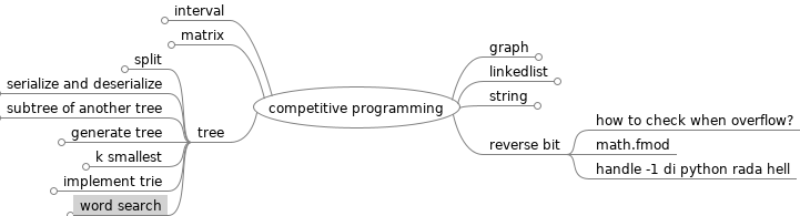
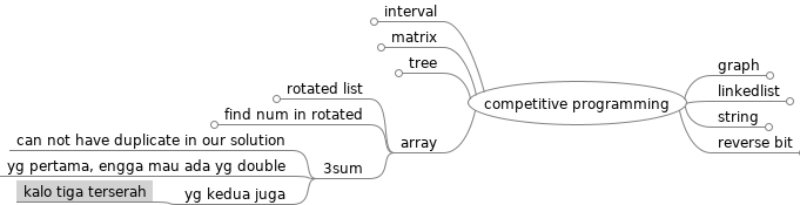
update lecture notes

diff --git a/competitive programming.mm b/competitive programming.mm
@@ -84,7 +84,7 @@
 <node CREATED="1646236107595" ID="ID_686902376" MODIFIED="1646236111699" TEXT="merge both"/>
 </node>
 </node>
-<node CREATED="1646319054999" FOLDED="true" ID="ID_739850153" MODIFIED="1646397309566" POSITION="left" TEXT="matrix">
+<node CREATED="1646319054999" FOLDED="true" ID="ID_739850153" MODIFIED="1647475997318" POSITION="left" TEXT="matrix">
 <node CREATED="1646319057257" FOLDED="true" ID="ID_71211213" MODIFIED="1646325436873" TEXT="spiral">
 <node CREATED="1646319061462" ID="ID_820041629" MODIFIED="1646319066376" TEXT="left boundary"/>
 <node CREATED="1646319066617" ID="ID_1354185240" MODIFIED="1646319070662" TEXT="right boundary"/>
@@ -142,7 +142,7 @@
 <node CREATED="1646528593768" ID="ID_319139200" MODIFIED="1646528601408" TEXT="how a word end?"/>
 </node>
 </node>
-<node CREATED="1646644221438" ID="ID_1215215340" MODIFIED="1646644224572" POSITION="left" TEXT="tree">
+<node CREATED="1646644221438" FOLDED="true" ID="ID_1215215340" MODIFIED="1647475991352" POSITION="left" TEXT="tree">
 <node CREATED="1646644224795" FOLDED="true" ID="ID_899174569" MODIFIED="1647089023768" TEXT="split">
 <node CREATED="1646644226400" ID="ID_371103410" MODIFIED="1646644232924" TEXT="which path you want to split"/>
 <node CREATED="1646645006118" ID="ID_1423508396" MODIFIED="1646645010275" TEXT="subproblem first">
@@ -231,10 +231,45 @@
 </node>
 </node>
 </node>
-<node CREATED="1646825743684" ID="ID_1980900154" MODIFIED="1646825748319" POSITION="right" TEXT="reverse bit">
+<node CREATED="1646825743684" FOLDED="true" ID="ID_1980900154" MODIFIED="1647475999160" POSITION="right" TEXT="reverse bit">
 <node CREATED="1646825748598" ID="ID_809195420" MODIFIED="1646825759888" TEXT="how to check when overflow?"/>
 <node CREATED="1646839958871" ID="ID_826246121" MODIFIED="1646839962451" TEXT="math.fmod"/>
 <node CREATED="1646840872466" ID="ID_723155245" MODIFIED="1646840879725" TEXT="handle -1 di python rada hell"/>
+</node>
+<node CREATED="1647476001168" ID="ID_752347311" MODIFIED="1647476003534" POSITION="left" TEXT="array">
+<node CREATED="1647476004020" FOLDED="true" ID="ID_1194419023" MODIFIED="1647478725897" TEXT="rotated list">
+<node CREATED="1647476009584" ID="ID_1037286319" MODIFIED="1647476021930" TEXT="check ada di patahan apa engga"/>
+<node CREATED="1647476026585" FOLDED="true" ID="ID_710743177" MODIFIED="1647477519758" TEXT="kalo bukan">
+<node CREATED="1647476232763" ID="ID_758435174" MODIFIED="1647476240008" TEXT="ini kan sorted"/>
+<node CREATED="1647476240268" ID="ID_579547381" MODIFIED="1647476248032" TEXT="ya udah kasih left"/>
+</node>
+<node CREATED="1647476249457" FOLDED="true" ID="ID_199967598" MODIFIED="1647477518302" TEXT="kalo iya">
+<node CREATED="1647476252591" ID="ID_242020631" MODIFIED="1647476255584" TEXT="ambil mid"/>
+<node CREATED="1647476255837" ID="ID_1504089364" MODIFIED="1647476257081" TEXT="cek"/>
+<node CREATED="1647476257696" ID="ID_123169223" MODIFIED="1647476378778" TEXT="karena ini patahan">
+<node CREATED="1647476405141" ID="ID_160359512" MODIFIED="1647476409056" TEXT="mid adalah kunci"/>
+<node CREATED="1647476409298" ID="ID_802263840" MODIFIED="1647476409298" TEXT=""/>
+</node>
+</node>
+</node>
+<node CREATED="1647477522889" FOLDED="true" ID="ID_730455477" MODIFIED="1647478724566" TEXT="find num in rotated">
+<node CREATED="1647477527739" ID="ID_1319381674" MODIFIED="1647477532404" TEXT="two portion">
+<node CREATED="1647477533106" ID="ID_370429078" MODIFIED="1647477535944" TEXT="left and right"/>
+</node>
+<node CREATED="1647477536933" ID="ID_135213104" MODIFIED="1647477663016" TEXT="eliminated"/>
+<node CREATED="1647477710935" ID="ID_417556560" MODIFIED="1647477723054" TEXT="liat lagi, target lebih besar atau lebih kecil"/>
+<node CREATED="1647477800659" ID="ID_1907895075" MODIFIED="1647477805054" TEXT="mid ada dimana?">
+<node CREATED="1647477805288" ID="ID_1609406814" MODIFIED="1647477807878" TEXT="itu kuncinya"/>
+</node>
+<node CREATED="1647477880114" ID="ID_713595777" MODIFIED="1647477890315" TEXT="use the right most value and left most value"/>
+</node>
+<node CREATED="1647525317561" ID="ID_1485675933" MODIFIED="1647525324657" TEXT="3sum">
+<node CREATED="1647525631540" ID="ID_1248927173" MODIFIED="1647525641802" TEXT="can not have duplicate in our solution"/>
+<node CREATED="1647525783099" ID="ID_1578941833" MODIFIED="1647525790930" TEXT="yg pertama, engga mau ada yg double"/>
+<node CREATED="1647525791994" ID="ID_237544862" MODIFIED="1647525795308" TEXT="yg kedua juga">
+<node CREATED="1647525795723" ID="ID_1367162419" MODIFIED="1647525800404" TEXT="kalo tiga terserah"/>
+</node>
+</node>
 </node>
 </node>
 </map>
